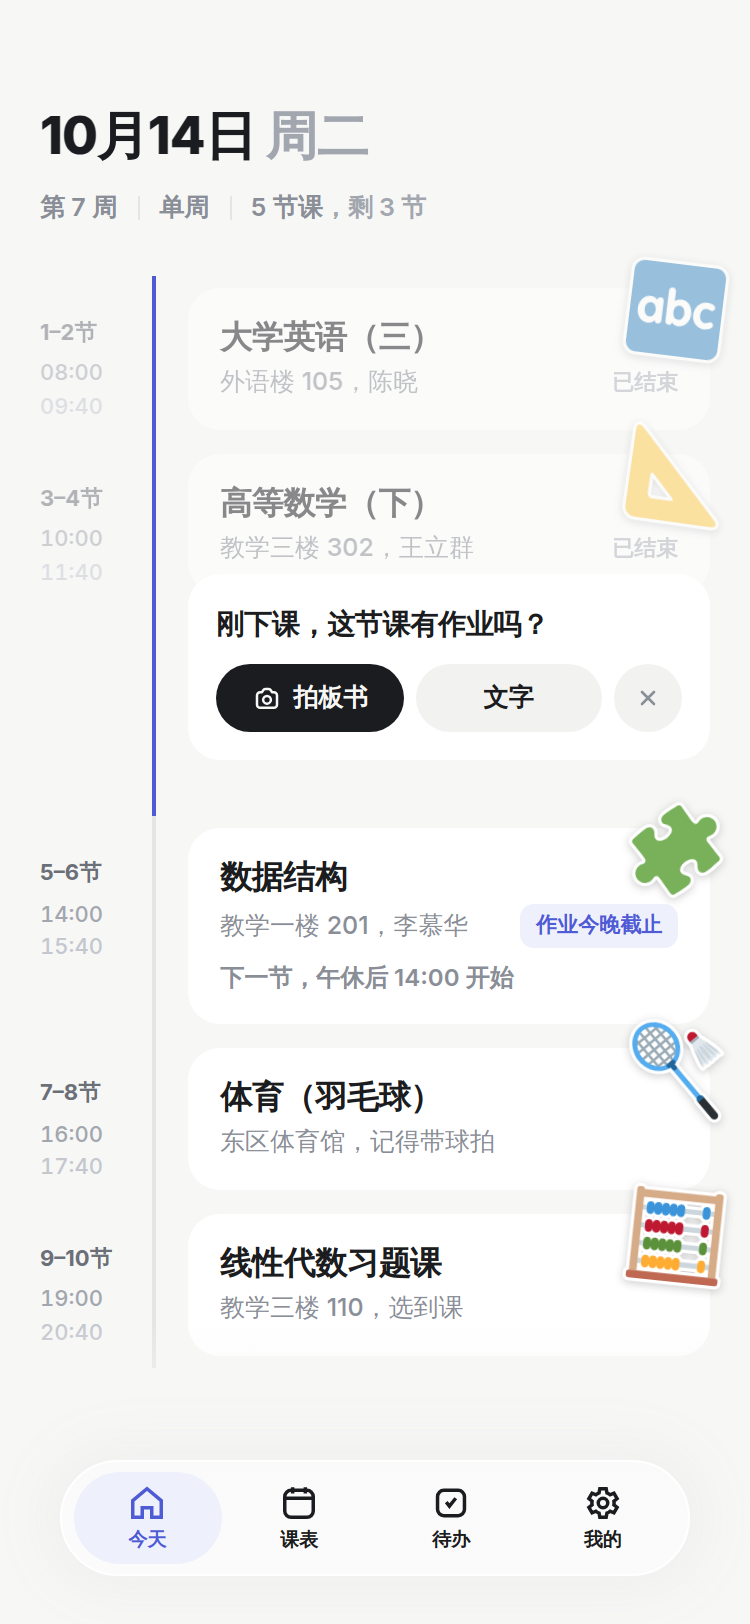
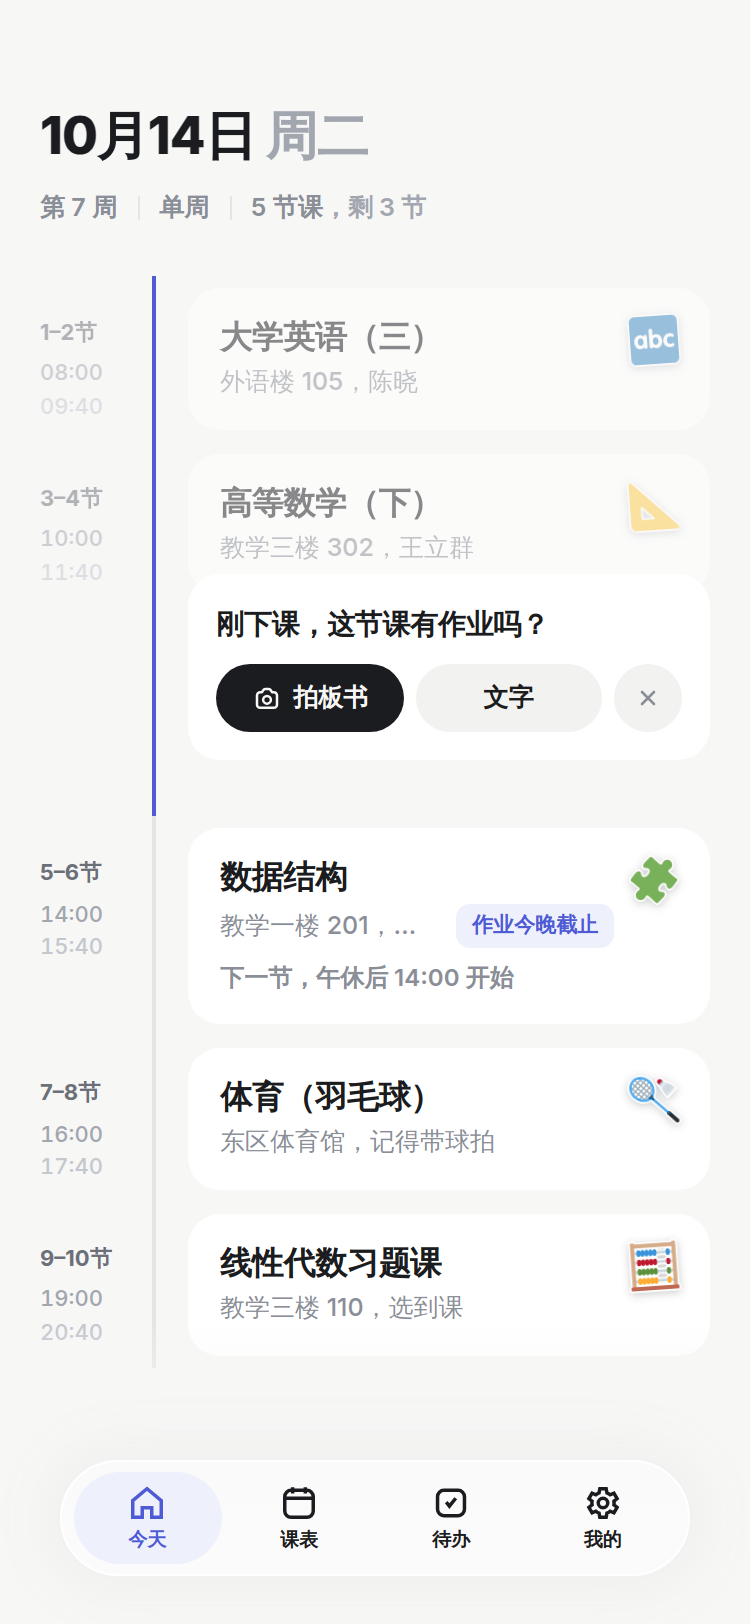
1.4.51: 今天页贴纸收进卡片右上角，去掉「已上」标签，临近下一节时第三行改为「还有 N 分钟」

Changed region(s): [[0.828, 0.1539, 0.9813, 0.3387], [0.828, 0.6158, 0.9813, 0.8005], [0.5213, 0.4926, 0.9507, 0.585]]

diff --git a/src/app/RealApp.tsx b/src/app/RealApp.tsx
@@ -570,28 +570,26 @@ function TodayView({
                         </div>
                       </div>
                       <div className={`min-w-0 flex-1 pl-4 ${isLast ? 'pb-7' : ''} ${past || o.status === 'cancelled' ? 'opacity-50' : ''}`}>
-                      {/* 每节课一张卡；学科贴纸压在卡片右上角，长按抬起时先隐去 */}
+                      {/* 每节课一张卡；右侧竖列放学科贴纸和状态标签，右边缘对齐，长按抬起时贴纸先隐去 */}
                       <div data-lift className="relative rounded-[16px] bg-(--c-surface) px-4 py-3.5">
-                        {sticker && (
-                          <Sticker id={sticker} size={46} tilt={stickerTilt(o.name)} hidden={liftKey === o.key} className="absolute -top-3 -right-1.5" />
-                        )}
-                        {/* 标题独占一行，让位给右上角贴纸；状态标签放到地点行右侧 */}
-                        <div className={`text-[16px] leading-[1.25] font-bold tracking-[-.01em] ${sticker ? 'pr-8' : ''} ${o.status === 'cancelled' ? 'line-through' : ''}`}>{o.name}</div>
-                        <div className="mt-1 flex items-center justify-between gap-2">
-                          <div className="min-w-0 text-[12.5px] font-medium text-(--c-ink3)">{[o.location, o.teacher].filter(Boolean).join('，') || '—'}</div>
-                          {o.conflict && <span className="flex-none rounded-[7px] bg-(--c-amber-soft) px-2 py-[3px] text-[10.5px] font-bold text-(--c-amber)">冲突</span>}
-                          {o.status === 'moved' && <span className="flex-none rounded-[7px] bg-(--c-accent-soft) px-2 py-[3px] text-[10.5px] font-bold text-(--c-accent)">已调课</span>}
-                          {!nowOn && o.key === nextKey && (
-                            <span className="flex-none rounded-[7px] bg-(--c-accent-soft) px-2 py-[3px] text-[10.5px] font-bold tabular-nums text-(--c-accent)">还有 {fmtDuration(o.start - now)}</span>
-                          )}
-                          {o.status === 'cancelled' && <span className="flex-none rounded-[7px] bg-(--c-surface2) px-2 py-[3px] text-[10.5px] font-bold text-(--c-ink3)">停课</span>}
-                          {o.status === 'leave' && <span className="flex-none rounded-[7px] bg-(--c-rose-soft) px-2 py-[3px] text-[10.5px] font-bold text-(--c-rose)">请假</span>}
-                          {(o.status === 'done' || (past && o.status === 'normal')) && <span className="flex-none rounded-[7px] bg-(--c-surface2) px-2 py-[3px] text-[10.5px] font-bold text-(--c-ink3)">已上</span>}
-                          {o.muted && o.status === 'normal' && !past && <span className="flex-none rounded-[7px] bg-(--c-surface2) px-2 py-[3px] text-[10.5px] font-bold text-(--c-ink3)">静音</span>}
+                        <div className="flex items-start gap-2">
+                          <div className="min-w-0 flex-1">
+                            <div className={`text-[16px] leading-[1.25] font-bold tracking-[-.01em] ${o.status === 'cancelled' ? 'line-through' : ''}`}>{o.name}</div>
+                            <div className="mt-1 flex items-center gap-2 text-[12.5px] font-medium text-(--c-ink3)">
+                              <span className="min-w-0 truncate">{[o.location, o.teacher].filter(Boolean).join('，') || '—'}</span>
+                              {o.conflict && <span className="flex-none rounded-[7px] bg-(--c-amber-soft) px-2 py-[3px] text-[10.5px] font-bold text-(--c-amber)">冲突</span>}
+                              {o.status === 'moved' && <span className="flex-none rounded-[7px] bg-(--c-accent-soft) px-2 py-[3px] text-[10.5px] font-bold text-(--c-accent)">已调课</span>}
+                              {o.status === 'cancelled' && <span className="flex-none rounded-[7px] bg-(--c-surface2) px-2 py-[3px] text-[10.5px] font-bold text-(--c-ink3)">停课</span>}
+                              {o.status === 'leave' && <span className="flex-none rounded-[7px] bg-(--c-rose-soft) px-2 py-[3px] text-[10.5px] font-bold text-(--c-rose)">请假</span>}
+                              {o.muted && o.status === 'normal' && !past && <span className="flex-none rounded-[7px] bg-(--c-surface2) px-2 py-[3px] text-[10.5px] font-bold text-(--c-ink3)">静音</span>}
+                            </div>
+                          </div>
+                          {sticker && <Sticker id={sticker} size={24} tilt={-4} hidden={liftKey === o.key} className="flex-none" />}
                         </div>
                         {nowOn && <div className="mt-1.5 text-[12px] font-bold tabular-nums text-(--c-accent)">上课中，现在 {fmtMinutes(now)}，还剩 {fmtDuration(o.end - now)}</div>}
-                        {!nowOn && o.key === nextKey && (
-                          <div className="mt-1.5 text-[12px] font-semibold tabular-nums text-(--c-ink3)">下一节，{fmtMinutes(o.start)} 开始</div>
+                        {!nowOn && o.key === nextKey && (o.start - now <= 60
+                          ? <div className="mt-1.5 text-[12px] font-bold tabular-nums text-(--c-accent)">还有 {fmtDuration(o.start - now)}，{fmtMinutes(o.start)} 开始</div>
+                          : <div className="mt-1.5 text-[12px] font-semibold tabular-nums text-(--c-ink3)">下一节，{fmtMinutes(o.start)} 开始</div>
                         )}
                       </div>
                       </div>

diff --git a/src/App.tsx b/src/App.tsx
@@ -189,14 +189,17 @@ function CourseRow({ c, last }: { c: Course; last?: boolean }) {
       </div>
       <div className={`min-w-0 flex-1 pl-4 ${last ? 'pb-7' : ''} ${past ? 'opacity-50' : ''}`}>
         <div className="relative rounded-[16px] bg-(--c-surface) px-4 py-3.5">
-          {sticker && <Sticker id={sticker} size={46} tilt={stickerTilt(c.name)} className="absolute -top-3 -right-1.5" />}
-          <div className={`text-[16px] leading-[1.25] font-bold tracking-[-.01em] text-(--c-ink) ${sticker ? 'pr-8' : ''}`}>{c.name}</div>
-          <div className="mt-1 flex items-center justify-between gap-2">
-            <div className="min-w-0 text-[12.5px] font-medium text-(--c-ink3)">{c.loc}，{c.teacher}</div>
-            {c.state === 'next' && c.extra && (
-              <span className="flex-none rounded-[7px] bg-(--c-accent-soft) px-2 py-[3px] text-[10.5px] font-bold text-(--c-accent)">{c.extra}</span>
-            )}
-            {past && <span className="flex-none text-[11px] font-semibold text-(--c-ink4b)">已结束</span>}
+          <div className="flex items-start gap-2">
+            <div className="min-w-0 flex-1">
+              <div className="text-[16px] leading-[1.25] font-bold tracking-[-.01em] text-(--c-ink)">{c.name}</div>
+              <div className="mt-1 flex items-center gap-2 text-[12.5px] font-medium text-(--c-ink3)">
+                <span className="min-w-0 truncate">{c.loc}，{c.teacher}</span>
+                {c.state === 'next' && c.extra && (
+                  <span className="flex-none rounded-[7px] bg-(--c-accent-soft) px-2 py-[3px] text-[10.5px] font-bold text-(--c-accent)">{c.extra}</span>
+                )}
+              </div>
+            </div>
+            {sticker && <Sticker id={sticker} size={24} tilt={-4} className="flex-none" />}
           </div>
           {now && <div className="mt-1.5 text-[12px] font-bold tabular-nums text-(--c-accent)">上课中，现在 11:02，还剩 38 分钟</div>}
           {c.state === 'next' && <div className="mt-1.5 text-[12px] font-semibold text-(--c-ink3)">下一节，午休后 14:00 开始</div>}
